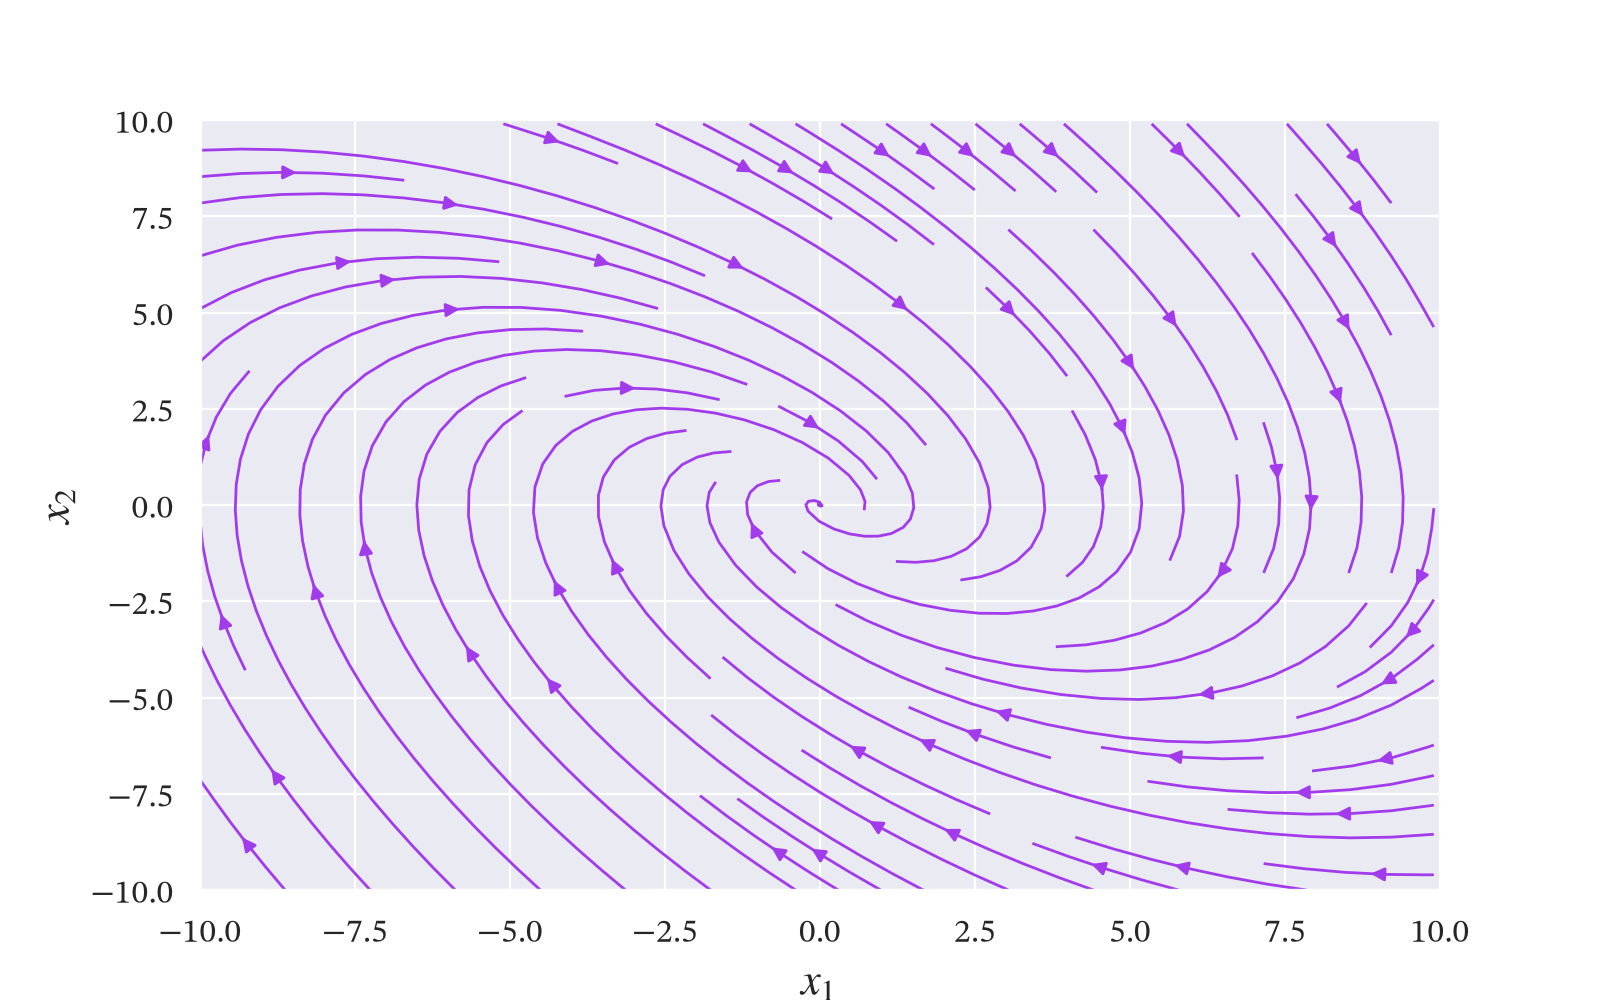
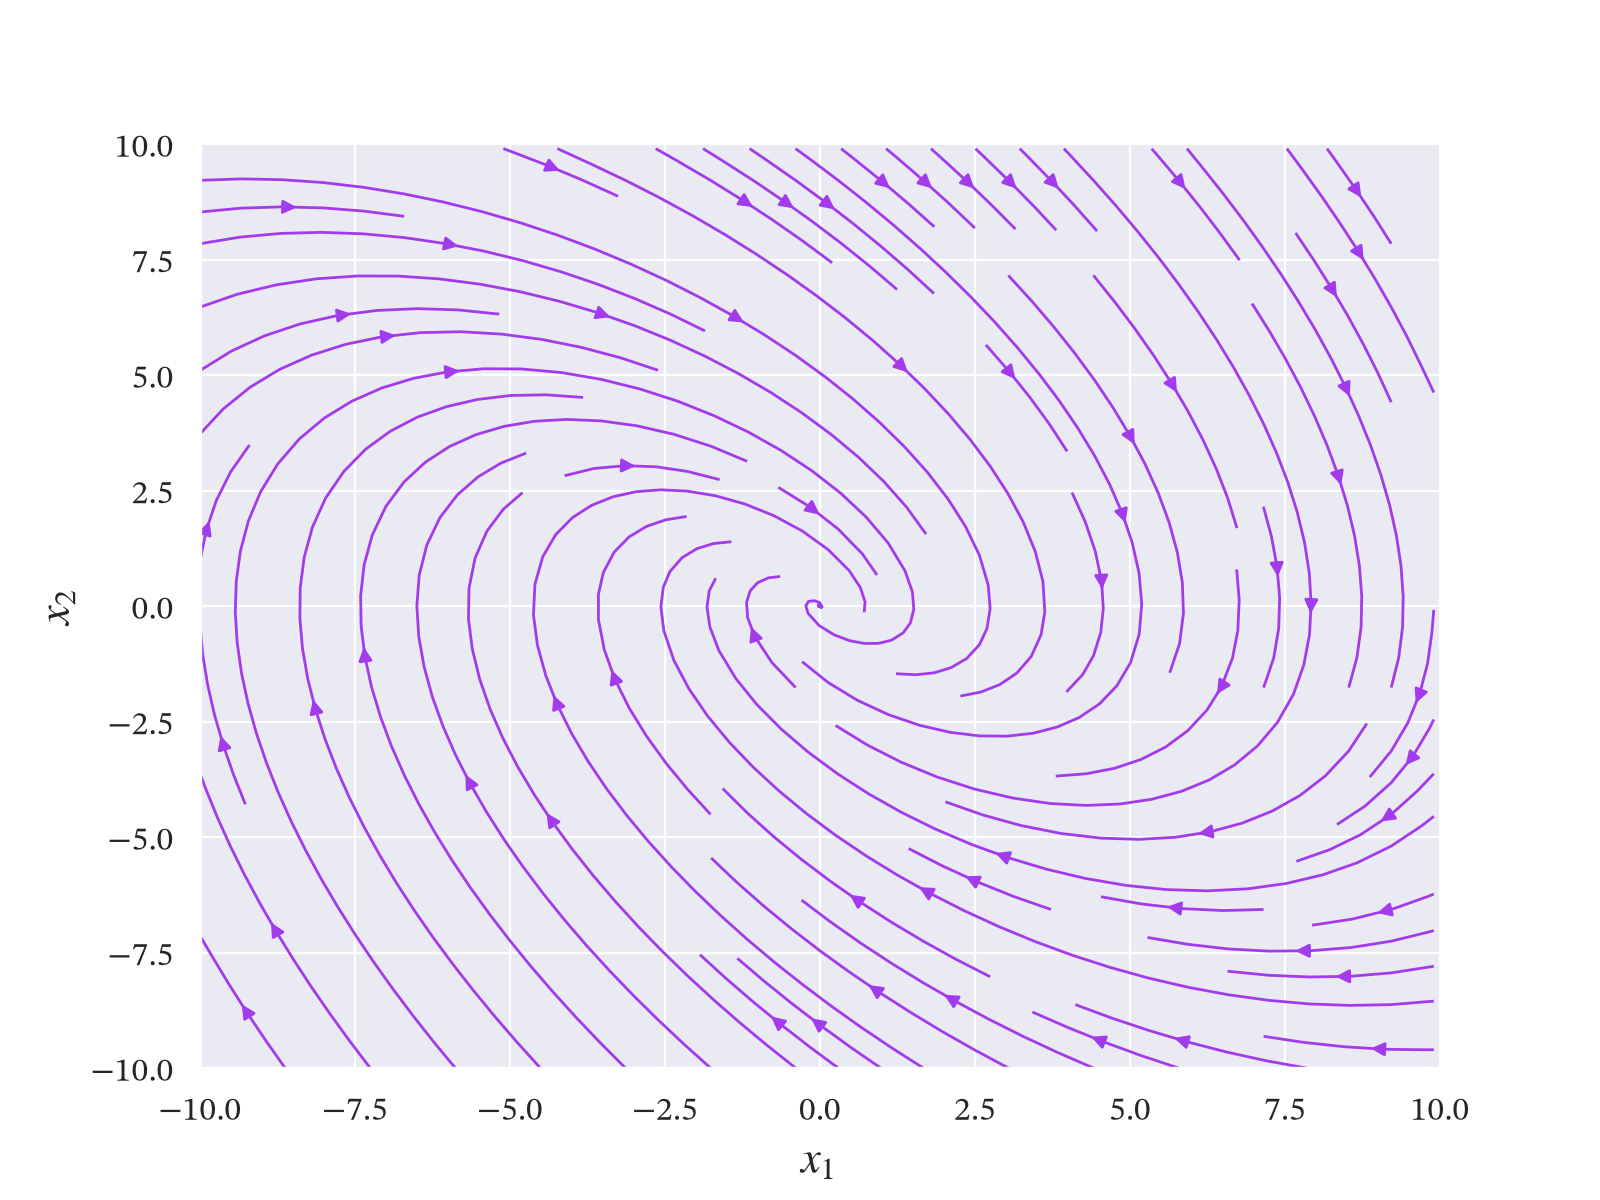
better plots, fixed out of boundary equations, updated how initial hue is set for particles with a notch filter

diff --git a/src/lib/particles/utils.ts b/src/lib/particles/utils.ts
@@ -26,12 +26,47 @@ function sampleLogNormal(mean: number, std: number): number {
     return Math.exp(sampleNormal(mean, std));
 }
 
+function sampleExponential(mean: number): number {
+    const u = Math.random();
+    return -mean * Math.log(1.0 - u);
+}
+
+function getInitialHuePosition(): number {
+    const k = 10.0;
+    const sigmoidLike = (x: number) => Math.atan(k * x) / Math.PI + 0.5;
+
+    const notches = [
+        {pos: 20, width: 20},
+        {pos: 90, width: 50},
+        {pos: 250, width: 110}
+    ];
+
+    let L = 360.0;
+    for(let i = 0; i < notches.length; i++) {
+        L -= notches[i].width;
+    }
+
+    const u = Math.random();
+
+    let hueValue = L * u;
+
+    for(let i = 0; i < notches.length; i++) {
+        let offset = notches[i].pos;
+        for(let j = 0; j < i; j++) {
+            offset -= notches[j].width;
+        }
+        hueValue += notches[i].width * sigmoidLike(L * u - offset);
+    }
+
+    return hueValue;
+}
+
 function getNextHueRangeTarget(): number {
-    return sampleLogNormal(4, 0.5);
+    return sampleExponential(30.0);
 }
 
 function getNextSaturationTarget(): number {
-    return sampleUniform(60.0, 80.0);
+    return sampleUniform(60.0, 90.0);
 }
 
 function getNextLightTarget(darkMode: boolean): number {
@@ -43,11 +78,11 @@ function getNextLightTarget(darkMode: boolean): number {
 }
 
 function getHuePositionChange(): number {
-    return sampleNormal(50.0, 15.0);
+    return sampleLogNormal(2.0, 1.5);
 }
 
 function getHueRotationChange(): number {
-    return sampleNormal(30.0, 10.0);
+    return sampleLogNormal(1.5, 1.0);
 }
 
 function mod(n: number, d: number): number {
@@ -149,6 +184,7 @@ class Heun implements Integrator {
 export {
     RAD2DEG,
     sampleUniform,
+    getInitialHuePosition,
     getNextHueRangeTarget,
     getNextSaturationTarget,
     getNextLightTarget,

diff --git a/src/lib/particles/simulation.ts b/src/lib/particles/simulation.ts
@@ -3,6 +3,7 @@ import type { ODE, Integrator } from "./utils";
 import {
     Lorenz,
     Heun,
+    getInitialHuePosition,
     getNextHueRangeTarget,
     getNextSaturationTarget,
     getNextLightTarget,
@@ -67,22 +68,22 @@ export class SimulationState {
         this.colorFrameRotation = new THREE.Quaternion();
         this.dq = new THREE.Quaternion();
 
-        this.hueRange = 20;
+        this.hueRange = 0;
         this.hueRangeTarget = getNextHueRangeTarget();
 
-        this.huePosition = sampleUniform(0.0, 360.0);
+        this.huePosition = getInitialHuePosition();
         this.hueRotation = 0;
 
-        this.saturation = 60;
+        this.saturation = 70;
         this.saturationTarget = getNextSaturationTarget();
 
         this.light = 50;
         this.lightTarget = 50;
 
         this.hueRangeChangeFactor = 0.2;
-        this.hueRangeChangeDefault = 10.0;
-        this.huePositionChangeFactor = 0.05;
-        this.hueRotationChangeFactor = 0.1;
+        this.hueRangeChangeDefault = 2.0;
+        this.huePositionChangeFactor = 0.1;
+        this.hueRotationChangeFactor = 0.5;
         this.saturationChangeFactor = 0.5;
         this.lightChangeFactor = 0.1;
 